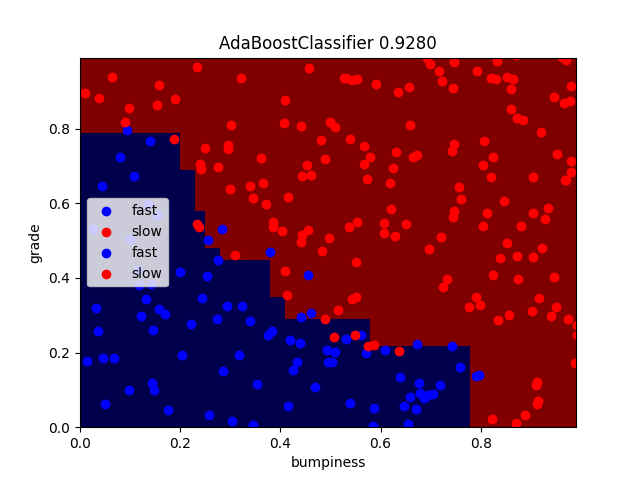
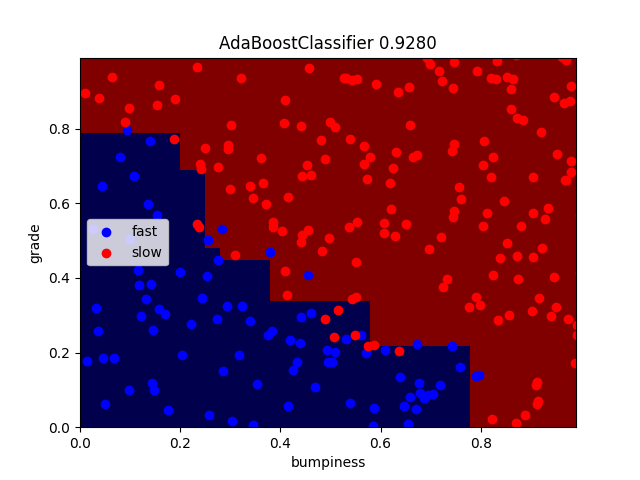
Add SVC to comparison

Changed region(s): [[0.125, 0.3438, 0.3438, 0.625], [0.4375, 0.625, 0.5938, 0.6875]]

diff --git a/choose_your_own/your_algorithm.py b/choose_your_own/your_algorithm.py
@@ -1,34 +1,49 @@
 #!/usr/bin/python
 
+from sklearn.svm import SVC
+from sklearn.ensemble import AdaBoostClassifier
+from sklearn.ensemble import RandomForestClassifier
+from sklearn.neighbors import KNeighborsClassifier
+from sklearn.tree import DecisionTreeClassifier
+from sklearn.model_selection import GridSearchCV
+from sklearn.naive_bayes import GaussianNB
+
+from sklearn import preprocessing
+
+
 import sys
 
 import matplotlib.pyplot as plt
 
 sys.path.insert(0, '../lib')
-from class_vis import prettyPicture, output_image
 from prep_terrain_data import makeTerrainData
+from class_vis import prettyPicture, output_image
 
 features_train, labels_train, features_test, labels_test = makeTerrainData()
 
 
-### the training data (features_train, labels_train) have both "fast" and "slow"
-### points mixed together--separate them so we can give them different colors
-### in the scatterplot and identify them visually
-grade_fast = [features_train[ii][0] for ii in range(0, len(features_train)) if labels_train[ii]==0]
-bumpy_fast = [features_train[ii][1] for ii in range(0, len(features_train)) if labels_train[ii]==0]
-grade_slow = [features_train[ii][0] for ii in range(0, len(features_train)) if labels_train[ii]==1]
-bumpy_slow = [features_train[ii][1] for ii in range(0, len(features_train)) if labels_train[ii]==1]
+# the training data (features_train, labels_train) have both "fast" and "slow"
+# points mixed together--separate them so we can give them different colors
+# in the scatterplot and identify them visually
 
+def plot_xy(X, Y, marker='o', alpha=0.5):
+    grade_fast = [X[ii][0] for ii in range(0, len(X)) if Y[ii] == 0]
+    bumpy_fast = [X[ii][1] for ii in range(0, len(X)) if Y[ii] == 0]
+    grade_slow = [X[ii][0] for ii in range(0, len(X)) if Y[ii] == 1]
+    bumpy_slow = [X[ii][1] for ii in range(0, len(X)) if Y[ii] == 1]
+    # initial visualization
+    plt.xlim(0.0, 1.0)
+    plt.ylim(0.0, 1.0)
+    plt.scatter(bumpy_fast, grade_fast, color="b", label="fast", marker=marker, alpha=alpha)
+    plt.scatter(grade_slow, bumpy_slow, color="r", label="slow", marker=marker, alpha=alpha)
 
-#### initial visualization
-plt.xlim(0.0, 1.0)
-plt.ylim(0.0, 1.0)
-plt.scatter(bumpy_fast, grade_fast, color = "b", label="fast")
-plt.scatter(grade_slow, bumpy_slow, color = "r", label="slow")
+plot_xy(features_train, labels_train, marker='x', alpha=0.5)
+plot_xy(features_test, labels_test, marker='o', alpha=1)
+
 plt.legend()
 plt.xlabel("bumpiness")
 plt.ylabel("grade")
-plt.titile("training data")
+plt.title("training data")
 plt.show()
 plt.savefig("initial.png")
 output_image('initial.png')
@@ -36,79 +51,110 @@ output_image('initial.png')
 ################################################################################
 
 print(f'samples train = {len(features_train)}, test = {len(features_test)}')
+print(f'fast % train ={sum(labels_train)*100.0/len(labels_train)}, test ={sum(labels_test)*100.0/len(labels_test)}')
 
-### your code here!  name your classifier object clf if you want the
-### visualization code (prettyPicture) to show you the decision boundary
-from sklearn.model_selection import GridSearchCV
-from sklearn.tree import DecisionTreeClassifier
-from sklearn.neighbors import KNeighborsClassifier
-from sklearn.ensemble import RandomForestClassifier
-from sklearn.ensemble import AdaBoostClassifier
+# your code here!  name your classifier object clf if you want the
+# visualization code (prettyPicture) to show you the decision boundary
 
 classifiers = [
     (DecisionTreeClassifier(min_samples_leaf=8, random_state=0), {
-    # 'criterion': ['gini', 'entropy'],
-    # 'splitter': ['random', 'best'],
-    'min_samples_split': [2, 4, 8, 16, 32],
-    'max_depth': [None, 4, 8, 10, 12, 16, 20],
-    'min_samples_leaf': [1, 2, 4, 8, 16],
-    'max_leaf_nodes': [None, 20, 40, 100, 200]
+        # 'criterion': ['gini', 'entropy'],
+        # 'splitter': ['random', 'best'],
+        'min_samples_split': [2, 4, 8, 16, 32],
+        'max_depth': [None, 4, 8, 10, 12, 16, 20],
+        'min_samples_leaf': [1, 2, 4, 8, 16],
+        'max_leaf_nodes': [None, 20, 40, 100, 200]
     }),
-    (RandomForestClassifier(max_leaf_nodes=40, n_estimators=20, random_state=0, n_jobs=-1), {
-    # 'criterion': ['gini', 'entropy'],
-    # 'splitter': ['random', 'best'],
-    # 'min_samples_split': [2, 4, 8, 16, 32],
-    # 'max_depth': [None, 4, 8, 10, 12, 16, 20],
-    # 'min_samples_leaf': [1, 2, 4, 8, 16],
-    # 'max_leaf_nodes': [None, 20, 40, 100, 200],
-    'n_estimators': [2, 4, 8, 20, 50, 100],
-    'max_leaf_nodes': [None, 20, 40, 100, 200]
+    (RandomForestClassifier(random_state=0, n_jobs=-1), {
+        # 'criterion': ['gini', 'entropy'],
+        # 'min_weight_fraction_leaf': [0.0, 0.01, 0.1],
+        # 'min_impurity_decrease': [0.0, 0.01, 0.1],
+        # 'warm_start': [False, True],
+        # 'class_weight' : ["balanced", "balanced_subsample"],
+        # 'ccp_alpha': [0.0],
+        # 'max_features' : ["auto", "sqrt", "log2"],
+        # 'min_samples_split': [2, 4, 8, 16, 32],
+        # 'max_depth': [None, 1, 2, 3, 4, 5, 8, 10, 12, 16, 20],
+        # 'min_samples_leaf': [1, 2, 4, 8, 16],
+        'max_leaf_nodes': [None, 20, 40, 100, 200],
+        'n_estimators': [20, 30, 50, 100],
+        # 'n_estimators': [1, 2, 4, 8, 20, 50, 100],
+        # 'max_leaf_nodes': [None, 20, 40, 100, 200]
     }),
-    (KNeighborsClassifier(n_jobs=-1, n_neighbors=15, p=1), {
+    (KNeighborsClassifier(algorithm='ball_tree', leaf_size=10, n_jobs=-1, n_neighbors=15, p=1), {
         'n_neighbors': [3, 5, 15, 20, 25, 50],
         'weights': ['uniform', 'distance'],
-        'algorithm': ['ball_tree', 'kd_tree'], # ['auto', 'ball_tree', 'kd_tree', 'brute'],
+        # ['auto', 'ball_tree', 'kd_tree', 'brute'],
+        'algorithm': ['ball_tree', 'kd_tree'],
         'leaf_size': [10, 20, 30, 40],
         'p': [1, 2, 4],
         'metric': ['minkowski']
     }),
-    (AdaBoostClassifier(learning_rate=0.7, n_estimators=20, random_state=0),{
-        'base_estimator': [None],
-        'n_estimators': [8, 15, 20, 25, 30, 40, 50],
-        'learning_rate': list(reversed([0.1, 0.4, 0.5, 0.7, 0.8, 1.0])),
+    (AdaBoostClassifier(learning_rate=0.7, n_estimators=20, random_state=0), {
+        'base_estimator': [ None ],
+        'n_estimators': [20, 50, 100, 150],
+        'learning_rate': [0.01, 0.05, 0.1, 0.2, 0.4, 0.5, 1.0],
         'algorithm': ['SAMME.R', 'SAMME'],
+    }),
+    (SVC(kernel="rbf", C=10.0, random_state=0), {
+        'kernel': ['linear', 'poly', 'rbf', 'sigmoid'],
+        # 'kernel': ['linear', 'poly', 'rbf', 'sigmoid', 'precomputed'],
+        # 'degree': [3],
+        # 'gamma': [1.0],
+        # 'coef0': [0.0],
+        # 'shrinking': [True],
+        # 'probability': [False],
+        'C':[1.0, 5.0, 9.0, 10.0, 15.0, 20, 100],
+        # 'tol': [1e-3],
+        # 'cache_size': [200],
+        # 'class_weight': [None],
+        # 'max_iter': [-1],
+        # 'decision_function_shape':['ovo', 'ovr'],
+        # 'break_ties': [False]
+    }),
+    (GaussianNB(priors=[0.5, 0.5]),{
+        'var_smoothing': [1e-9, 1e-3, 1e-12],
+        'priors':[None, [0.5, 0.5], [0.35, 0.65], [0.1, 0.9], [0.9, 0.1]]
     })
 ]
+
+
 
 results = []
 
 for base_clf, param_grid in classifiers:
-    search = GridSearchCV(base_clf, param_grid, n_jobs=-1)
-    search.fit(features_train, labels_train)
-    score = search.best_estimator_.score(features_test, labels_test)
-    result = {
-        'clf': search.best_estimator_,
-        'score': score,
-        'params': search.best_params_
-    }
-    name = str(search.best_estimator_).split('(')[0]
-    title = f'{name} {score:0.4f}'
-    prettyPicture(search.best_estimator_, features_test, labels_test, name, title)
-    output_image(f'{name}.png')
-    print(result)
-    results.append(result)
+    try:
+        search = GridSearchCV(base_clf, param_grid, n_jobs=-1)
+        search.fit(features_train, labels_train)
+        score = search.best_estimator_.score(features_test, labels_test)
+        result = {
+            'score': score,
+            'clf': search.best_estimator_,
+            'params': search.best_params_
+        }
+        name = str(search.best_estimator_).split('(')[0]
+        title = f'{name} {score:5.4f}'
+        prettyPicture(search.best_estimator_, features_test,
+                    labels_test, name, title)
+        output_image(f'{name}.png')
+        print(result)
+        results.append(result)
+    except Exception as e:
+        print(e)
 
 best = max(results, key=lambda x: x['score'])
 print(f'best result: {best}')
 
 """
 samples train = 750, test = 250
-{'clf': DecisionTreeClassifier(min_samples_leaf=8, random_state=0), 'score': 0.924, 'params': {'max_depth': None, 'max_leaf_nodes': None, 'min_samples_leaf': 8, 'min_samples_split': 2}}
-{'clf': RandomForestClassifier(max_leaf_nodes=40, n_estimators=20, n_jobs=-1, random_state=0), 'score': 0.92, 'params': {'max_leaf_nodes': 40, 'n_estimators': 20}}
-{'clf': KNeighborsClassifier(algorithm='ball_tree', leaf_size=10, n_jobs=-1, n_neighbors=15, p=1), 'score': 0.928, 'params': {'algorithm': 'ball_tree', 'leaf_size': 10, 'metric': 'minkowski', 'n_neighbors': 15, 'p': 1, 'weights': 'uniform'}}
-{'clf': AdaBoostClassifier(learning_rate=0.7, n_estimators=20, random_state=0), 'score': 0.928, 'params': {'algorithm': 'SAMME.R', 'base_estimator': None, 'learning_rate': 0.7, 'n_estimators': 20}}
-
-best result: {  'clf': KNeighborsClassifier(algorithm='ball_tree', leaf_size=10, n_jobs=-1, n_neighbors=15, p=1),
-                'score': 0.928,
-                'params': {'algorithm': 'ball_tree', 'leaf_size': 10, 'metric': 'minkowski', 'n_neighbors': 15, 'p': 1, 'weights': 'uniform'}}
+fast % train =64.13333333333334, test =66.4
+{'score': 0.924, 'clf': DecisionTreeClassifier(min_samples_leaf=8, random_state=0), 'params': {'max_depth': None, 'max_leaf_nodes': None, 'min_samples_leaf': 8, 'min_samples_split': 2}}
+{'score': 0.92, 'clf': RandomForestClassifier(max_leaf_nodes=40, n_estimators=20, n_jobs=-1,
+                       random_state=0), 'params': {'max_leaf_nodes': 40, 'n_estimators': 20}}
+{'score': 0.928, 'clf': KNeighborsClassifier(algorithm='ball_tree', leaf_size=10, n_jobs=-1,
+                     n_neighbors=15, p=1), 'params': {'algorithm': 'ball_tree', 'leaf_size': 10, 'metric': 'minkowski', 'n_neighbors': 15, 'p': 1, 'weights': 'uniform'}}
+{'score': 0.928, 'clf': AdaBoostClassifier(learning_rate=0.5, n_estimators=20, random_state=0), 'params': {'algorithm': 'SAMME.R', 'base_estimator': None, 'learning_rate': 0.5, 'n_estimators': 20}}
+{'score': 0.94, 'clf': SVC(C=10.0, random_state=0), 'params': {'C': 10.0, 'kernel': 'rbf'}}
+{'score': 0.904, 'clf': GaussianNB(priors=[0.5, 0.5]), 'params': {'priors': [0.5, 0.5], 'var_smoothing': 1e-09}}
+best result: {'score': 0.94, 'clf': SVC(C=10.0, random_state=0), 'params': {'C': 10.0, 'kernel': 'rbf'}}
 """

diff --git a/lib/class_vis.py b/lib/class_vis.py
@@ -27,6 +27,7 @@ def prettyPicture(clf, X_test, y_test, name='test', title=''):
 
     # Put the result into a color plot
     Z = Z.reshape(xx.shape)
+    plt.clf()
     plt.xlim(xx.min(), xx.max())
     plt.ylim(yy.min(), yy.max())
 
